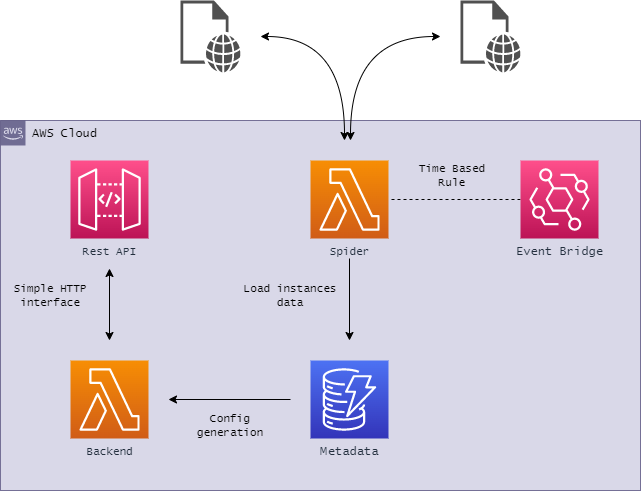
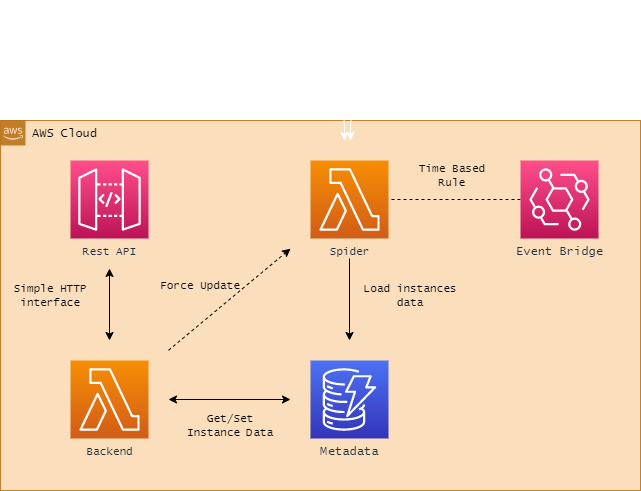
force-fed logic few readme notations design changes refining permissions

diff --git a/services/backend_lambda/main.py b/services/backend_lambda/main.py
@@ -2,9 +2,12 @@ import os
 import json
 import boto3
 import logging
+from datetime import datetime as dt
 
 dynamodb = boto3.resource('dynamodb')
 table_name = os.environ['DYN_TABLE_NAME']
+spider_lambda_name = os.environ['SPI_LBMDA_NAME']
+
 table = dynamodb.Table(table_name)
 
 logger = logging.getLogger()
@@ -48,45 +51,65 @@ def setOrUpdate_dbitem(item):
 
 def post_handler(data):
     logger.info("Processing post request.")
-    instance_type = data.get('instance.type')
-    rvalue = {
-        "mapreduce.map.java.opts" : data.get('mapreduce.map.java.opts'),
-        "mapreduce.map.memory.mb" : data.get('mapreduce.map.memory.mb'),
-        "mapreduce.reduce.java.opts" : data.get('mapreduce.reduce.java.opts'),
-        "mapreduce.reduce.memory.mb" : data.get('mapreduce.reduce.memory.mb'),
-        "yarn.app.mapreduce.am.resource.mb" : data.get('yarn.app.mapreduce.am.resource.mb'),
-        "yarn.cores" : data.get('yarn.cores'),
-        "yarn.nodemanager.resource.memory-mb" : data.get('yarn.nodemanager.resource.memory-mb'),
-        "yarn.scheduler.maximum-allocation-mb" : data.get('yarn.scheduler.maximum-allocation-mb'),
-        "yarn.scheduler.minimum-allocation-mb" : data.get('yarn.scheduler.minimum-allocation-mb')
-    }
+    update_database = data.get('update_database')
 
-    null_keys = []
-    if instance_type is None:
-        null_keys.append("instance.type")
+    if update_database is not None:
+        logger.info("Database force-fed mode.")
+        client = boto3.client('lambda')
+        try:
+            client.invoke(
+                FunctionName=spider_lambda_name,
+                InvocationType='Event'
+            )
+        except Exception as e:
+            m = f"Spider lambda invocation error. ERR: {str(e)}"
+            logger.error(m)
+            return default_response({"error": m}, 500)
 
-    for k, v in rvalue.items():
-        if v is None:
-            null_keys.append(str(k))
+        logger.info("Spider trigger activated.")
+        return default_response({"response": "Spide trigger activated."})
+    else:
+        logger.info("Database upsert mode.")
+        instance_type = data.get('instance.type')
+        rvalue = {
+            "mapreduce.map.java.opts" : data.get('mapreduce.map.java.opts'),
+            "mapreduce.map.memory.mb" : data.get('mapreduce.map.memory.mb'),
+            "mapreduce.reduce.java.opts" : data.get('mapreduce.reduce.java.opts'),
+            "mapreduce.reduce.memory.mb" : data.get('mapreduce.reduce.memory.mb'),
+            "yarn.app.mapreduce.am.resource.mb" : data.get('yarn.app.mapreduce.am.resource.mb'),
+            "yarn.cores" : data.get('yarn.cores'),
+            "yarn.nodemanager.resource.memory-mb" : data.get('yarn.nodemanager.resource.memory-mb'),
+            "yarn.scheduler.maximum-allocation-mb" : data.get('yarn.scheduler.maximum-allocation-mb'),
+            "yarn.scheduler.minimum-allocation-mb" : data.get('yarn.scheduler.minimum-allocation-mb')
+        }
 
-    if len(null_keys) > 0:
-        str_nk = ', '.join(null_keys)
-        w = "is" if len(null_keys) == 1 else "are"
-        return default_response({"response": f"Post method must have all properties: '{str_nk}' {w} None."}, 400)
-    
-    try:
-        int(rvalue.get("yarn.cores"))
-    except:
-        return default_response({"response": "Parameter 'yarn.cores' must be integer."}, 400)
+        null_keys = []
+        if instance_type is None:
+            null_keys.append("instance.type")
 
+        for k, v in rvalue.items():
+            if v is None:
+                null_keys.append(str(k))
 
-    setOrUpdate_dbitem({
-        "category": "instance_data",
-        "key": instance_type,
-        "value": rvalue
-    })
+        if len(null_keys) > 0:
+            str_nk = ', '.join(null_keys)
+            w = "is" if len(null_keys) == 1 else "are"
+            return default_response({"response": f"Post method must have all properties: '{str_nk}' {w} None."}, 400)
+        
+        try:
+            int(rvalue.get("yarn.cores"))
+        except:
+            return default_response({"response": "Parameter 'yarn.cores' must be integer."}, 400)
 
-    return default_response({"response": "Database item upserted."})
+        processed_dt = int((dt.now() - dt(1970,1,1)).total_seconds())
+        setOrUpdate_dbitem({
+            "category": "instance_data",
+            "key": instance_type,
+            "value": rvalue,
+            "processed_dt": processed_dt            
+        })
+
+        return default_response({"response": "Database item upserted."})
 
 
 def get_handler(data):

diff --git a/infra/aws_ecb/infra.py b/infra/aws_ecb/infra.py
@@ -37,30 +37,7 @@ class EmrConfigBuilder(Stack):
         ).scale_on_utilization(target_utilization_percent=75)
 
 
-    def build_lambda_functions(self):
-        # Create Backend function to connect API and metadata table
-        self.backend_lambda =  lambda_.DockerImageFunction(self, "ECBBackendLambda",
-                                        function_name="ecb_backend_lambda",
-                                        memory_size=128,
-                                        code=lambda_.DockerImageCode.from_image_asset("../services/backend_lambda"),
-                                        environment={
-                                            "DYN_TABLE_NAME": self.metadata_table.table_name,
-                                        })
-        self.backend_lambda.apply_removal_policy(RemovalPolicy.DESTROY)
-        self.backend_lambda.add_to_role_policy(iam.PolicyStatement(
-                effect=iam.Effect.ALLOW,
-                actions=[                    
-                    "dynamodb:GetItem",
-                    "dynamodb:Query",
-                    "dynamodb:Scan",
-                    "dynamodb:BatchWriteItem",
-                    "dynamodb:PutItem",
-                    "dynamodb:UpdateItem"
-                ],
-                resources=[
-                    f"arn:aws:dynamodb:{self.region}:{self.account}:table/{self.metadata_table.table_name}",
-                ],
-            ))
+    def build_lambda_functions(self):      
         
         # Create Spider function to crawl instances data
         self.spider_function =  lambda_.DockerImageFunction(self, "ECBInstanceSpiderFunction",
@@ -75,15 +52,47 @@ class EmrConfigBuilder(Stack):
                                 })        
         
         self.spider_function.apply_removal_policy(RemovalPolicy.DESTROY)
+        # Dynamodb permissions
         self.spider_function.add_to_role_policy(iam.PolicyStatement(
                 effect=iam.Effect.ALLOW,
                 actions=[
-                    "dynamodb:BatchWriteItem",
+                    "dynamodb:BatchWriteItem"
+                ],
+                resources=[
+                    f"arn:aws:dynamodb:{self.region}:{self.account}:table/{self.metadata_table.table_name}",
+                ],
+            ))
+        
+        # Create Backend function to connect API and metadata table
+        self.backend_lambda =  lambda_.DockerImageFunction(self, "ECBBackendLambda",
+                                        function_name="ecb_backend_lambda",
+                                        memory_size=128,
+                                        code=lambda_.DockerImageCode.from_image_asset("../services/backend_lambda"),
+                                        environment={
+                                            "DYN_TABLE_NAME": self.metadata_table.table_name,
+                                            "SPI_LBMDA_NAME": self.spider_function.function_name
+                                        })
+        self.backend_lambda.apply_removal_policy(RemovalPolicy.DESTROY)
+        # Dynamodb permissions
+        self.backend_lambda.add_to_role_policy(iam.PolicyStatement(
+                effect=iam.Effect.ALLOW,
+                actions=[                    
+                    "dynamodb:GetItem",
                     "dynamodb:PutItem",
                     "dynamodb:UpdateItem"
                 ],
                 resources=[
                     f"arn:aws:dynamodb:{self.region}:{self.account}:table/{self.metadata_table.table_name}",
+                ],
+            ))
+        # Lambda permissions
+        self.backend_lambda.add_to_role_policy(iam.PolicyStatement(
+                effect=iam.Effect.ALLOW,
+                actions=[                    
+                    "lambda:InvokeFunction"
+                ],
+                resources=[
+                    f"arn:aws:lambda:{self.region}:{self.account}:function:{self.spider_function.function_name}",
                 ],
             ))
         

diff --git a/services/spider_lambda/main.py b/services/spider_lambda/main.py
@@ -4,6 +4,7 @@ import boto3
 import requests
 import logging
 import functools as fn
+from datetime import datetime as dt
 from bs4 import BeautifulSoup
 
 logger = logging.getLogger()
@@ -80,10 +81,12 @@ def handler(event, context):
                         instances[inst_type]["yarn.cores"] = int(inst_vcpu)
    
         table = dynamodb.Table(table_name)
+        processed_dt = int((dt.now() - dt(1970,1,1)).total_seconds())
         with table.batch_writer() as batch:
             for k, v in instances.items():
                 batch.put_item(Item={"category": "instance_data",
-                                     "key": k, "value": v})
+                                     "key": k, "value": v,
+                                     "processed_dt": processed_dt})
 
         logger.info("Database updated.")
         default_response({"response": "Database updated."})

diff --git a/README.md b/README.md
@@ -46,3 +46,14 @@ poetry run cdk deploy
 ## Design
 
 ![image](./assets/design/emr_config_builder.png)
+
+## How to Request 
+
+## Configuration (TODO: dynaconf)
+
+### Get : Generate EMR Config
+
+### Post : Force-fed database 
+
+### Post : Upsert instance data
+
